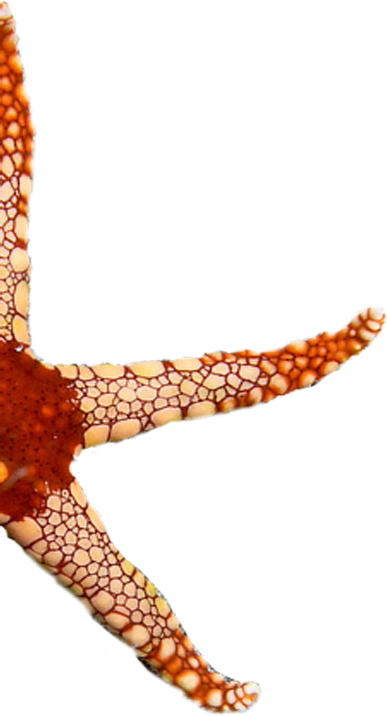
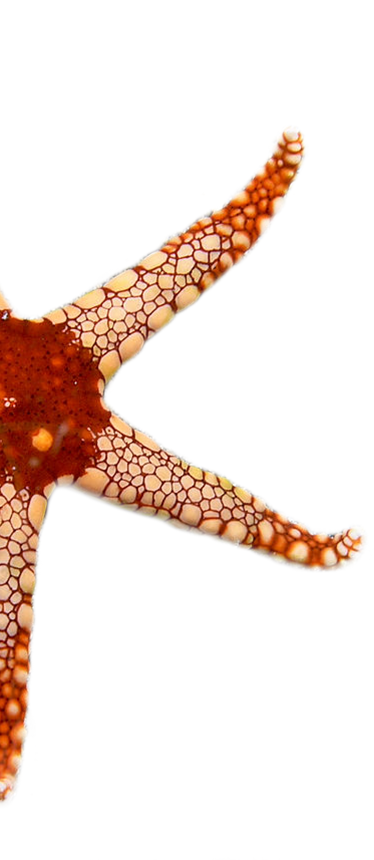
18/06

diff --git a/sustainability.html b/sustainability.html
@@ -25,6 +25,9 @@
                     <a href="partners.html">PARTNERS</a>
                     <a href="sustainability.html">SUSTAINABILITY</a>
                 </nav>
+                <section class="header-sustainability-container">
+                    <img class="header-sustainability" src="media/Sustainability-heading.png">
+                </section>
             </section> 
         </head>
         <img class="starfish" src="media/Starfish.png">

diff --git a/CSS/styles.css b/CSS/styles.css
@@ -364,9 +364,15 @@ input{
     background-position: top;
     background-repeat:no-repeat;
 }
+.header-sustainability-container{
+    margin-left:auto;
+    margin-right: auto;
+    width: 50%;
+    transform: translateY(18rem);
+}
 .starfish{
     float: left;
-    transform:translateY(-50rem)
+    transform:scaleY(-1) translateY(50rem);
 }
 .section{
     width: 65rem;
